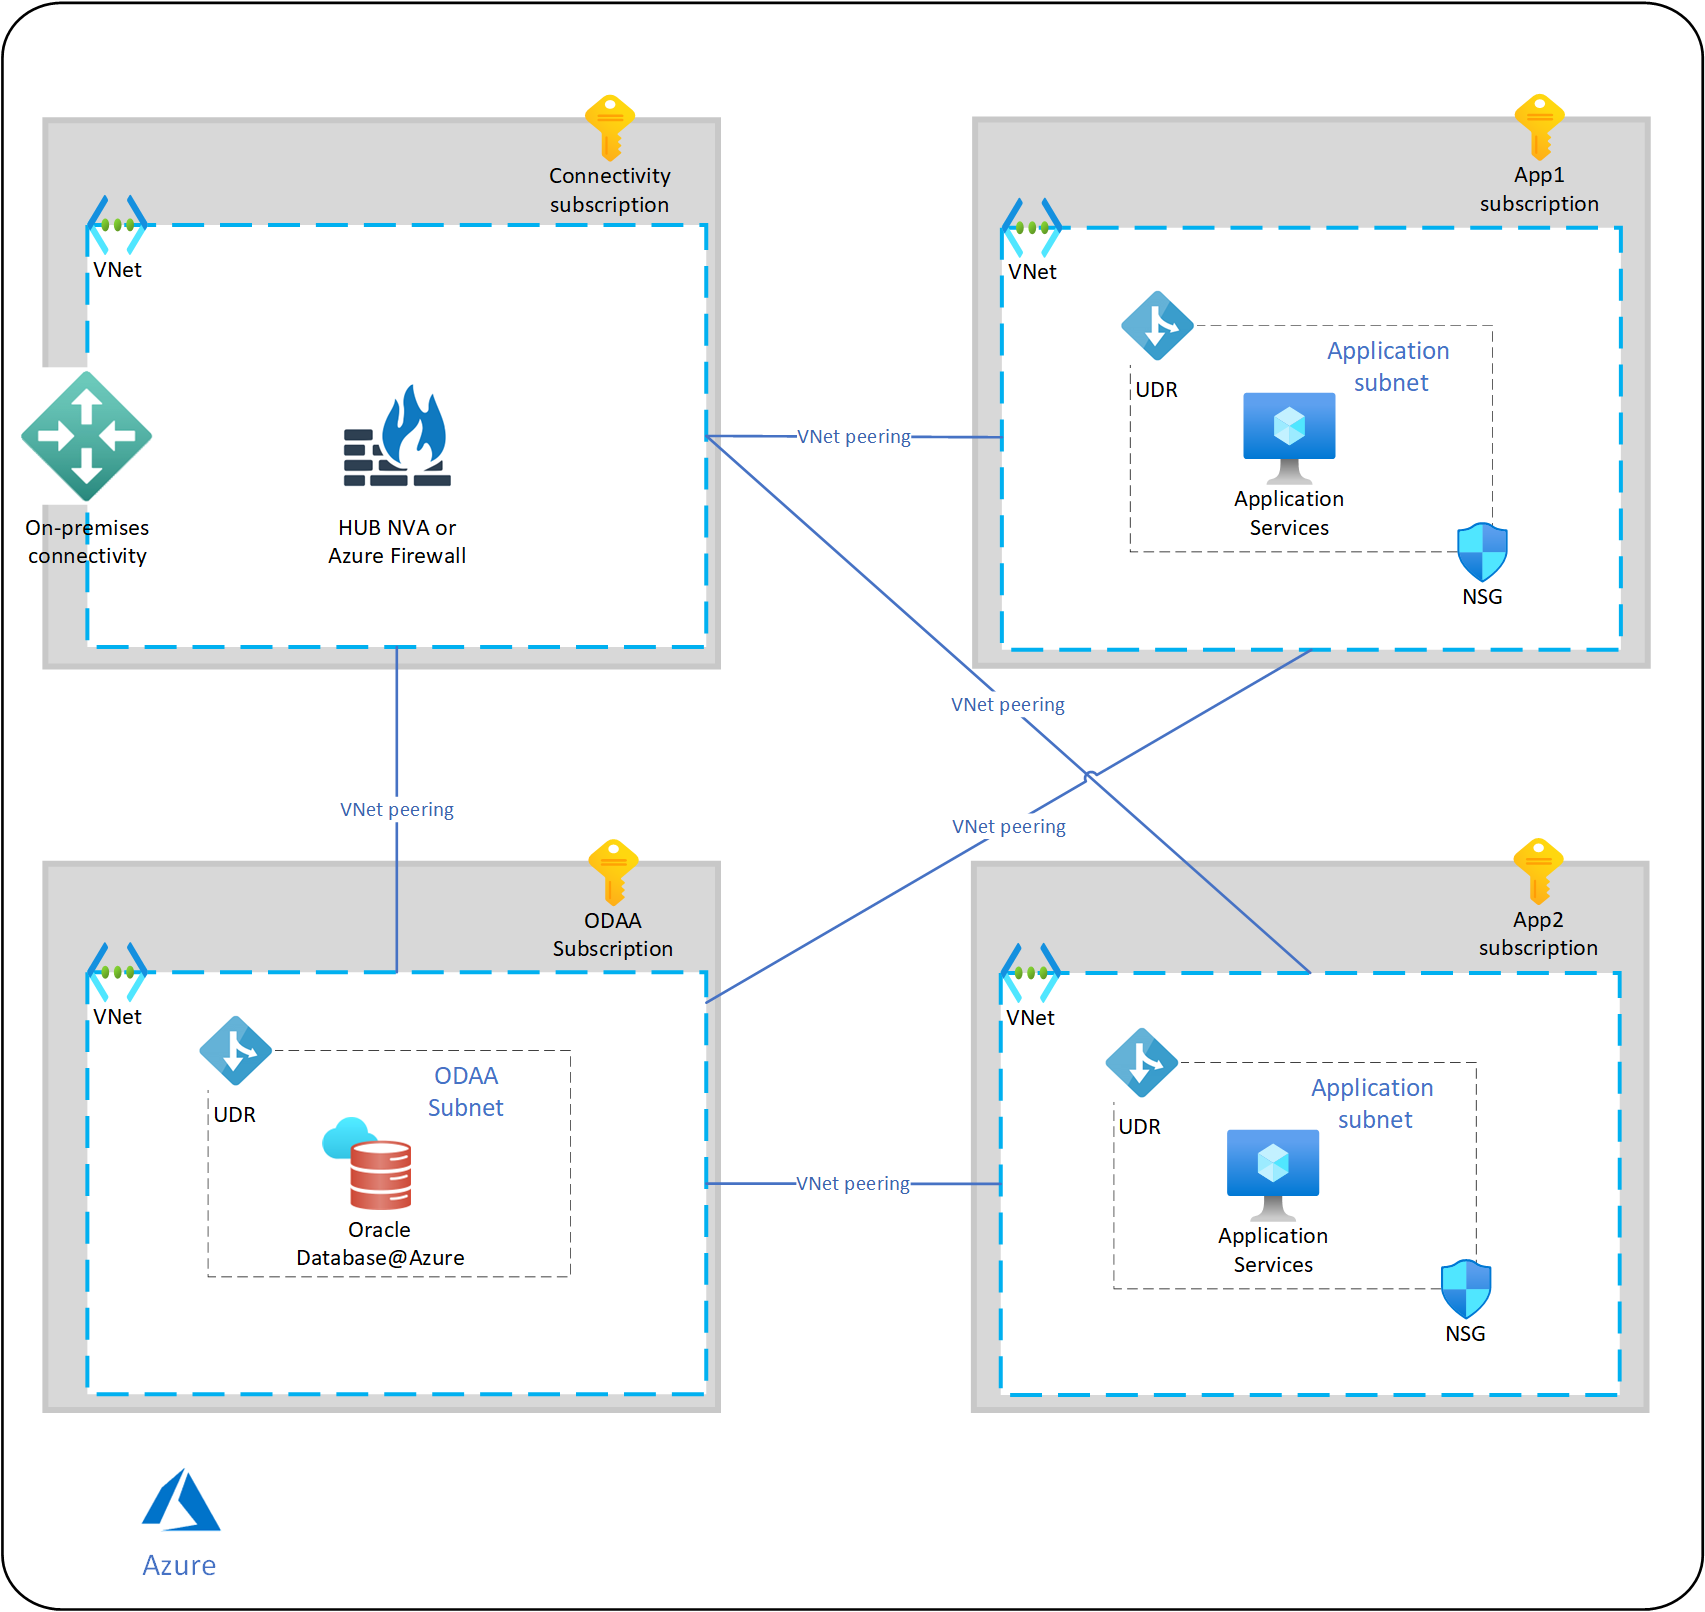
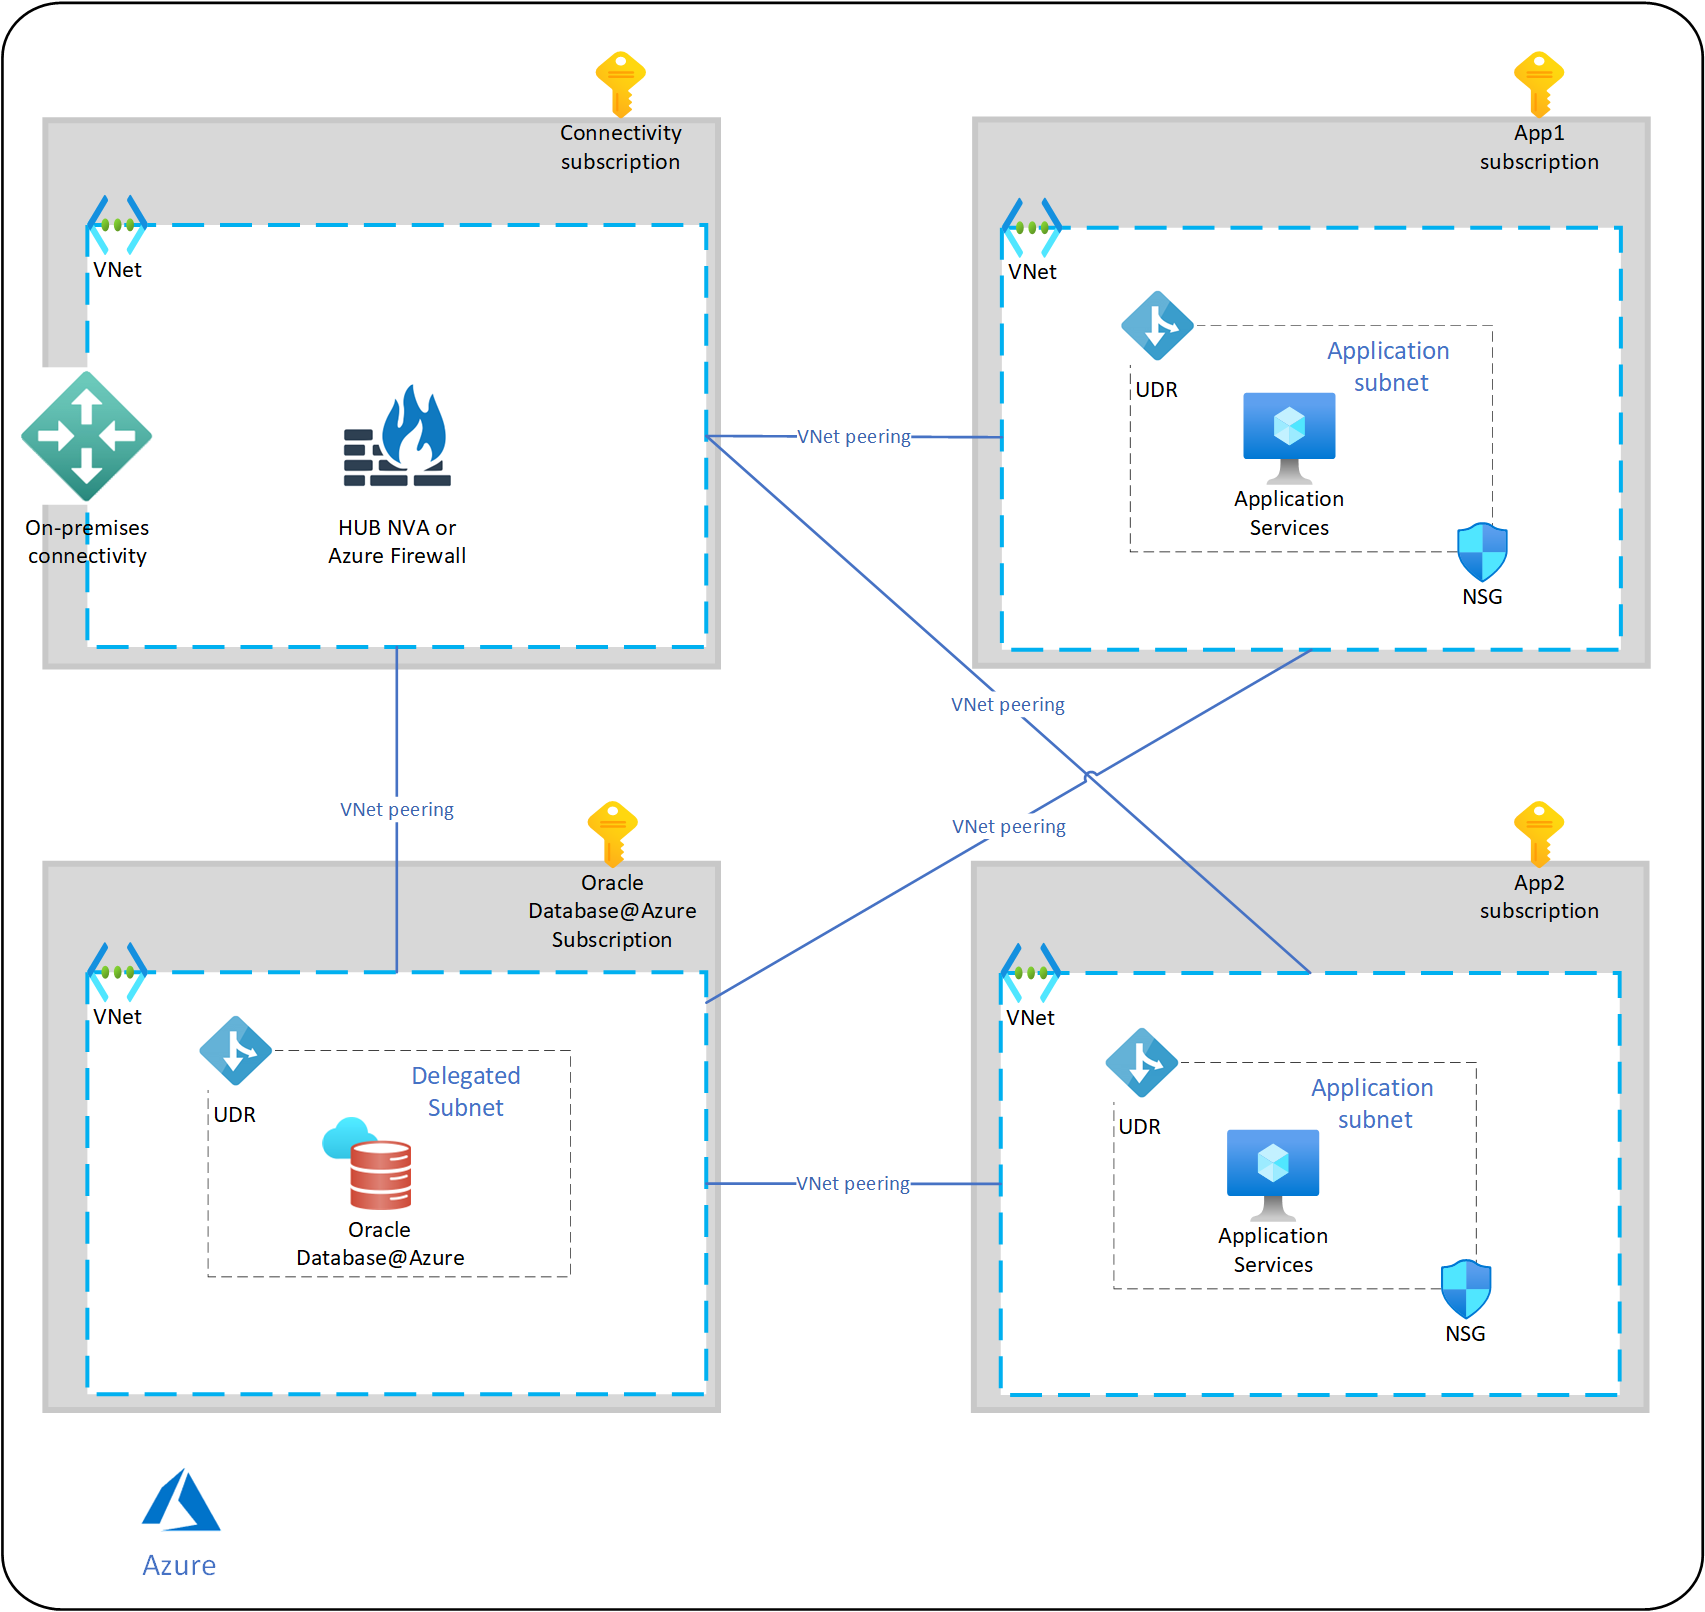
Update definitions and diagrams

diff --git a/docs/scenarios/oracle-iaas/index.md b/docs/scenarios/oracle-iaas/index.md
@@ -1,5 +1,5 @@
 ---
-title: Introduction to the Oracle on Azure adoption scenario
+title: Introduction to Oracle on Azure adoption scenarios
 description: Learn how to set up and manage Oracle workloads within your Azure landing zone. 
 author: jfaurskov
 ms.author: janfaurs
@@ -10,13 +10,13 @@ ms.custom:
   - e2e-oracle
   - engagement-fy24
 ---
-# Introduction: Migrate Oracle workloads to Azure
+# Introduction to Oracle on Azure adoption scenarios
 
 This article describes how to set up and manage Oracle workloads within your Azure landing zone. It also describes specific architectural strategies and provides reference implementations for Oracle database systems on Azure. The guidance assumes that you have an Azure landing zone. For more information, see [What is an Azure landing zone?](/azure/cloud-adoption-framework/ready/landing-zone/implementation-options) and [Landing zone implementation options](/azure/cloud-adoption-framework/ready/landing-zone/implementation-options).
 
 ## Define Oracle on Azure
 
-You can lift and shift your Oracle workloads to Azure virtual machines or use Oracle Database@Azure. Oracle Database@Azure provides two principal options for migrating Oracle workloads to Azure:
+When considering Oracle on Azure adoption scenarios there are the following two principal technology platform options available:
 
 - **Oracle on Azure Virtual Machines**: Run Oracle databases and enterprise applications, such as Siebel, PeopleSoft, JD Edwards, E-Business Suite, or customized WebLogic Server applications on Azure infrastructure. You can use an Oracle Linux image, Red Hat Enterprise Linux (RHEL), or another endorsed operating system. There are multiple VMs and storage options available.
 
